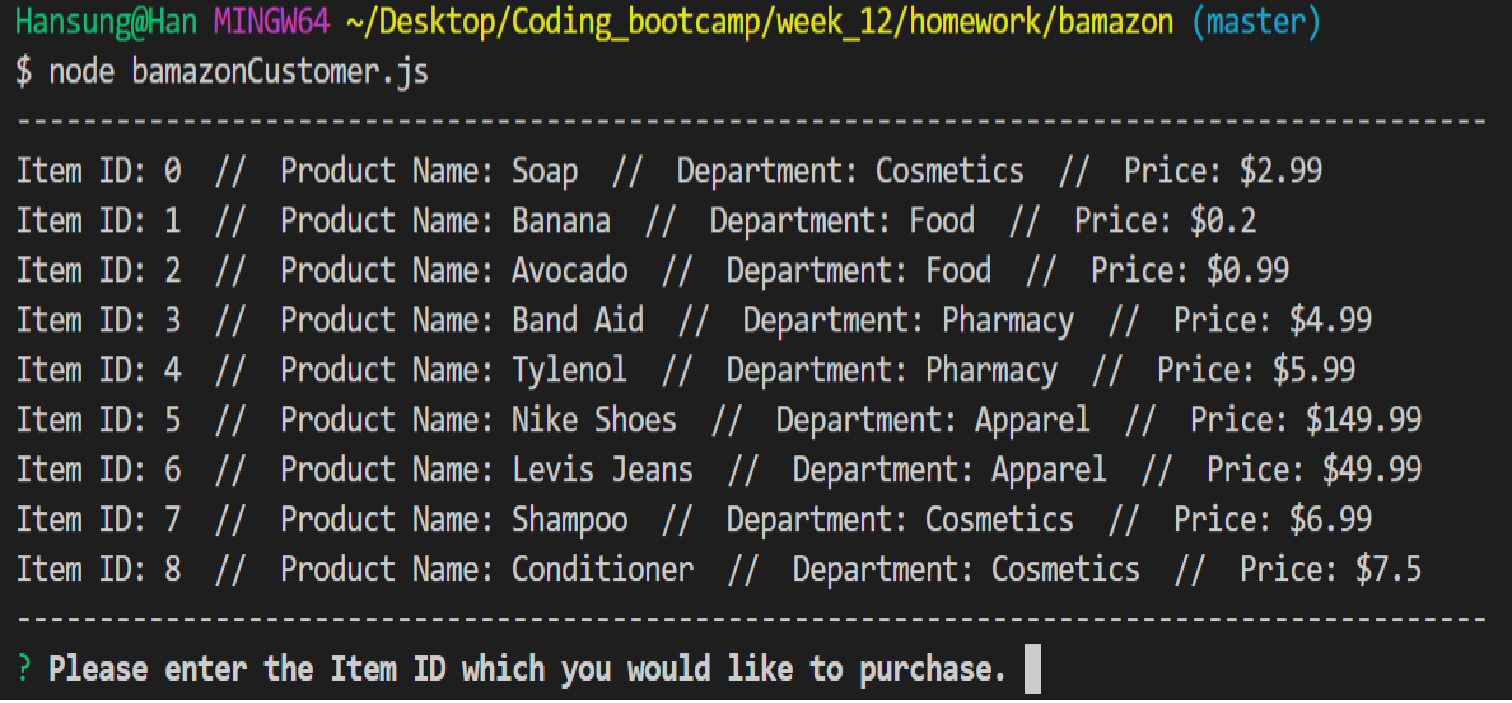
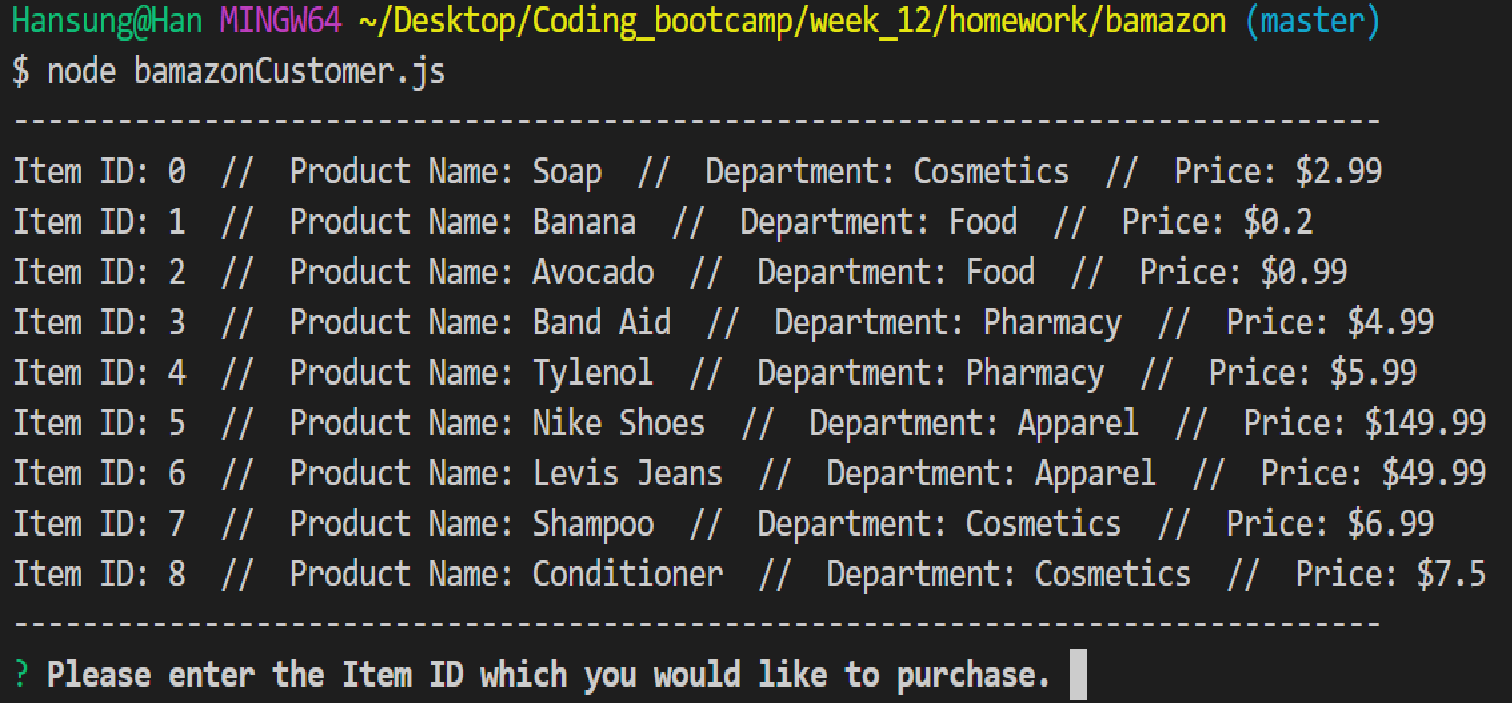
added img1

diff --git a/bamazonCustomer.js b/bamazonCustomer.js
@@ -39,7 +39,7 @@ function promptUserPurchase() {
 	]).then(function(input) {
 		var item = input.item_id;
 		var quantity = input.quantity;
-        var queryStr = 'SELECT * FROM products WHERE ?';
+		var queryStr = 'SELECT * FROM products WHERE ?';
 
 		connection.query(queryStr, {item_id: item}, function(err, data) {
 			if (err) throw err;
@@ -49,11 +49,13 @@ function promptUserPurchase() {
 				displayInventory();
 
 			} else {
+				var productData = data[0];
+
 				if (quantity <= productData.stock_quantity) {
 					console.log('Congratulations, the product you requested is in stock! Placing order!');
 
 					var updateQueryStr = 'UPDATE products SET stock_quantity = ' + (productData.stock_quantity - quantity) + ' WHERE item_id = ' + item;
-		
+
 					connection.query(updateQueryStr, function(err, data) {
 						if (err) throw err;
 
@@ -64,10 +66,8 @@ function promptUserPurchase() {
 						connection.end();
 					})
 				} else {
-					console.log('Sorry, there is not enough product in stock, your order can not be placed as is.');
-					console.log('Please modify your order.');
-					console.log("\n---------------------------------------------------------------------\n");
-
+					console.log('Insufficient quantity!');
+				
 					displayInventory();
 				}
 			}
@@ -81,7 +81,7 @@ function displayInventory() {
 	connection.query(queryStr, function(err, data) {
 		if (err) throw err;
 
-		console.log('-----------------------------------------------------------------------------------------');
+		console.log('-------------------------------------------------------------------------------');
 
 		var strOut = '';
 		for (var i = 0; i < data.length; i++) {
@@ -94,7 +94,7 @@ function displayInventory() {
 			console.log(strOut);
 		}
 
-	  	console.log("-----------------------------------------------------------------------------------------");
+	  	console.log("-------------------------------------------------------------------------------");
 
 	  	promptUserPurchase();
 	})

diff --git a/README.md b/README.md
@@ -24,11 +24,11 @@ node bamazonCustomer.js
 
 2.
 
-![Success Customer](./images/success_customer.png)
+![Success Customer](./images/customer2.png)
 
 3.
 
-![Failure Customer](./images/failure_customer.png)
+![Failure Customer](./images/customer3.png)
 
 ## Bamazon Manager
 
@@ -40,24 +40,20 @@ node bamazonManager.js
 
 1.
 
-![Initial Manager](./images/initial_manager.png)
+![Initial Manager](./images/manager1.png)
 
 2.
 
-![First Choice Manager](./images/first_choice_manager.png)
+![First Choice Manager](./images/manager2.png)
 
 3.
 
-![Second Choice Manager](./images/second_choice_manager.png)
+![Second Choice Manager](./images/manager3.png)
 
 4.
 
-![Third Choice Options Manager](./images/third_choice_options_manager.png)
+![Third Choice Options Manager](./images/manager4.png)
 
 5.
 
-![Third Choice Success Manager](./images/third_choice_success_manager.png)
-
-6.
-
-![Fourth Choice Manager](./images/fourth_choice_manager.png)
+![Fourth Choice Manager](./images/manager5.png)
